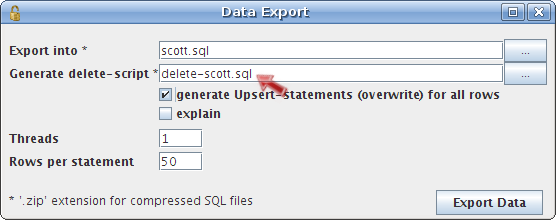
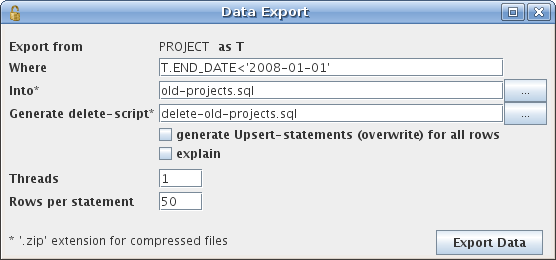
XML tutorial
git-svn-id: http://svn.code.sf.net/p/jailer/code/trunk@415 3dd849cd-670e-4645-a7cd-dd197c8d0e81

diff --git a/doc/web/deleting-data.htm b/doc/web/deleting-data.htm
@@ -35,12 +35,12 @@
     <tr>
       <td colspan="2" class="nav1background" height="33" width="100%">&nbsp;
       <b><font color="#ffffff"><a href="home.htm" target="_self"
- class="tlink">Home</a> &nbsp;&nbsp;&nbsp; <a href="quicktour.htm" target="_self" class="tlink">Quick Tour</a> &nbsp;&nbsp;&nbsp;<a
+ class="tlink">Home</a> &nbsp;&nbsp;&nbsp; <a href="quicktour.htm"
+ target="_self" class="tlink">Quick Tour</a> &nbsp;&nbsp;&nbsp;<a
  href="exporting-data.htm" target="_self" class="tlinkA">Tutorial</a>
-&nbsp;&nbsp;&nbsp; <a href="design.htm"
- target="_self" class="tlink">Documentation</a>&nbsp;&nbsp;&nbsp; <a
- href="http://sourceforge.net/forum/?group_id=197260" target="_self"
- class="tlink">Forum</a>
+&nbsp;&nbsp;&nbsp; <a href="design.htm" target="_self" class="tlink">Documentation</a>&nbsp;&nbsp;&nbsp;
+      <a href="http://sourceforge.net/forum/?group_id=197260"
+ target="_self" class="tlink">Forum</a>
 &nbsp;&nbsp;&nbsp; <a
  href="http://sourceforge.net/project/showfiles.php?group_id=197260"
  target="_self" class="tlink">Download</a> &nbsp;&nbsp;&nbsp;
@@ -99,95 +99,69 @@ Data</a></li>
 This tutorial shows you how to delete rows from database without
 violating integrity of the remaining data.<br>
             <br>
-The generation of a <span style="font-style: italic;">delete-script</span>
-is closely coupled with data export. The same restrictions are applied,
+Deleting data <span style="font-style: italic;"></span>is closely
+coupled with data exportation. The same restrictions are applied,
 no row will be deleted which is not also exported. This way you can
 always restore deleted rows by re-importing them.<br>
             <br>
-A delete-script contains DELETE statements for all exported rows which
-are not associated<br>
-with any non-exported row according to the restricted data model.
-Additionally tables can <br>
-be excluded from deletion so that their rows will never be deleted, see
-step 3.<br>
-            <h3><br>
-            </h3>
-            <h4>Step 1. Delete Scott (unsuccessful)</h4>
-Open the extraction model <big><span style="font-family: monospace;">scott.csv</span></big>
-from previous
-tutorial. Use <span style="font-style: italic;">Tools-&gt;Export Data</span>
-again and enter <big><span style="font-family: monospace;">delete-scott.sql</span></big>
-as name of delete-script:<br>
+A <span style="font-style: italic;">delete-script</span> contains
+DELETE statements for all exported rows which
+are not associated with any non-exported row according to the
+restricted data model.
+Additionally tables can be excluded from deletion so that their rows
+will never be deleted, see
+step 2.<br>
+            <h4><br>
+Objective</h4>
+Delete all projects which have ended before 2008-01-01. Delete all
+associated participations too but no role and no employee.<br>
+            <br>
+            <h3> </h3>
+            <h4>Step 1. Delete projects<br>
+            </h4>
+Create a new model. Select table PROJECT as subject table and enter
+T.END_DATE&lt;'2008-01-01' as subject condition.<br>
+            <br>
+In order to prevent the deletion of a PROJECT_PARTICIPATION, which is
+not associated with an old project but with a role of a participation
+in an old project, disable the association from ROLE to
+PROJECT_PARTICIPATION. Do the same with the association from EMPLOYEE
+to PROJECT_PARTICIPATION.<br>
+            <br>
+Disable all associations to EMPLOYEE too. This will reduce the set of
+exported employee-rows to those employees who have participated in an
+old project.<br>
+            <br>
+            <img alt="" src="delt1.gif"><br>
+            <br>
+            <br>
+Open the data export dialog. Enter <span style="font-style: italic;">delete-old-projects.sql</span>
+as name for the delete-script and start the exportation.<br>
             <p> <img src="deleting-data-Dateien/screen17.png"><br>
             </p>
+            <p><img alt="" src="delt2.gif"><br>
+            </p>
             <p><br>
-Jailer will now generate the following script too:<br>
-            <br>
-            <table
- style="background-color: rgb(51, 102, 255); text-align: left;"
- border="0" cellpadding="2" cellspacing="0">
-              <tbody>
-                <tr>
-                  <td
- style="vertical-align: top; height: 24px; background-color: rgb(202, 225, 235);"><big><span
- style="font-family: monospace;"><span style="font-weight: bold;"><span
- style="font-family: monospace;">delete-scott.sql </span></span></span><span
- style="font-family: monospace;"></span></big><br>
-                  </td>
-                </tr>
-              </tbody>
-            </table>
-            <table style="width: 100%; text-align: left;" border="0"
- cellpadding="0" cellspacing="0">
-              <tbody>
-                <tr>
-                  <td
- style="vertical-align: top; background-color: rgb(202, 225, 235);"
- colspan="2"><span style="font-family: monospace;"></span><span
- style="color: rgb(255, 0, 0); font-family: monospace;"></span><span
- style="font-family: monospace;">-- generated by Jailer at Fri May 02
-12:34:35 CEST 2008&nbsp; from wisser@desktop<br>
---<br>
--- extraction model:&nbsp; EMPLOYEE where NAME='SCOTT'
-(extractionmodel/scott.csv)<br>
--- database URL:&nbsp;&nbsp;&nbsp;&nbsp;&nbsp;
-jdbc:db2://localhost/wisser<br>
--- database user:&nbsp;&nbsp;&nbsp;&nbsp; scott<br>
--- exported entities: 7<br>
---&nbsp;&nbsp;&nbsp;&nbsp;
-DEPARTMENT&nbsp;&nbsp;&nbsp;&nbsp;&nbsp;&nbsp;&nbsp;&nbsp;&nbsp;&nbsp;&nbsp;&nbsp;&nbsp;&nbsp;&nbsp;&nbsp;&nbsp;&nbsp;&nbsp;&nbsp;
-2<br>
---&nbsp;&nbsp;&nbsp;&nbsp;
-EMPLOYEE&nbsp;&nbsp;&nbsp;&nbsp;&nbsp;&nbsp;&nbsp;&nbsp;&nbsp;&nbsp;&nbsp;&nbsp;&nbsp;&nbsp;&nbsp;&nbsp;&nbsp;&nbsp;&nbsp;&nbsp;&nbsp;&nbsp;
-3<br>
---&nbsp;&nbsp;&nbsp;&nbsp;
-SALARYGRADE&nbsp;&nbsp;&nbsp;&nbsp;&nbsp;&nbsp;&nbsp;&nbsp;&nbsp;&nbsp;&nbsp;&nbsp;&nbsp;&nbsp;&nbsp;&nbsp;&nbsp;&nbsp;&nbsp;
-2<br>
---<br>
--- Tabu-tables:&nbsp; {&nbsp; }<br>
---<br>
--- entities to delete: 0<br>
-                  </span></td>
-                </tr>
-              </tbody>
-            </table>
-            <br>
 Jailer
-has exported 7 entities but didn't delete anything! That's because
-deleting Scott but not Scotts subordinate (who is not in the set
-defined by the extraction-model!) would violate the integrity of the
-remaining data.<br>
+has generated a script for the deletion of the two old projects and the
+six associated participations, but also for the deletion of six
+employees and one role. This role is the role of an participation in an
+old project, but not of a remaining one. The six employees have
+participated in an old project but in none of the remaining projects.<br>
             <br>
             </p>
-            <h4>Step 2. Delete Scott<br>
+            <h4>Step 2. Prevent employees and roles from being deleted<br>
             </h4>
-In order to delete Scott, me must delete his subordinate
-too. To do so, relax the restriction on the <span
- style="font-style: italic;">inverse-BOSS</span>-association:
-            <p><img src="deleting-data-Dateien/screen18.png"><br>
+Open the data model editor (<span style="font-style: italic;">Tools-&gt;Data
+Model Editor</span>). Edit the table EMPLOYEE and switch on the
+check-box "<span style="font-style: italic;">exclude from deletion</span>".
+Do the same with table ROLE.<br>
             <br>
-            <br>
-and <span style="font-style: italic;">Export Data </span>again:<br>
+            <img alt="" src="delt3.gif"
+ style="width: 600px; height: 350px;"><br>
+            <p><br>
+            <span style="font-style: italic;">Export Data </span>again.
+Employees and roles are now excluded from deletion:<br>
             <br>
             <table
  style="background-color: rgb(51, 102, 255); text-align: left;"
@@ -197,7 +171,7 @@ and <span style="font-style: italic;">Export Data </span>again:<br>
                   <td
  style="vertical-align: top; height: 24px; background-color: rgb(202, 225, 235);"><big><span
  style="font-family: monospace;"><span style="font-weight: bold;"><span
- style="font-family: monospace;">delete-scott.sql </span></span></span><span
+ style="font-family: monospace;">delete-old-projects.sql </span></span></span><span
  style="font-family: monospace;"></span></big><br>
                   </td>
                 </tr>
@@ -219,143 +193,49 @@ and <span style="font-style: italic;">Export Data </span>again:<br>
 -- database URL:&nbsp;&nbsp;&nbsp;&nbsp;&nbsp;
 jdbc:db2://localhost/wisser<br>
 -- database user:&nbsp;&nbsp;&nbsp;&nbsp; scott<br>
--- exported entities: 9<br>
+-- Exported Entities: 25<br>
 --&nbsp;&nbsp;&nbsp;&nbsp;
 DEPARTMENT&nbsp;&nbsp;&nbsp;&nbsp;&nbsp;&nbsp;&nbsp;&nbsp;&nbsp;&nbsp;&nbsp;&nbsp;&nbsp;&nbsp;&nbsp;&nbsp;&nbsp;&nbsp;&nbsp;&nbsp;
 2<br>
 --&nbsp;&nbsp;&nbsp;&nbsp;
 EMPLOYEE&nbsp;&nbsp;&nbsp;&nbsp;&nbsp;&nbsp;&nbsp;&nbsp;&nbsp;&nbsp;&nbsp;&nbsp;&nbsp;&nbsp;&nbsp;&nbsp;&nbsp;&nbsp;&nbsp;&nbsp;&nbsp;&nbsp;
-4<br>
+8<br>
+--&nbsp;&nbsp;&nbsp;&nbsp;
+PROJECT&nbsp;&nbsp;&nbsp;&nbsp;&nbsp;&nbsp;&nbsp;&nbsp;&nbsp;&nbsp;&nbsp;&nbsp;&nbsp;&nbsp;&nbsp;&nbsp;&nbsp;&nbsp;&nbsp;&nbsp;&nbsp;&nbsp;&nbsp;
+2<br>
+--&nbsp;&nbsp;&nbsp;&nbsp;
+PROJECT_PARTICIPATION&nbsp;&nbsp;&nbsp;&nbsp;&nbsp;&nbsp;&nbsp;&nbsp;&nbsp;
+6<br>
+--&nbsp;&nbsp;&nbsp;&nbsp;
+ROLE&nbsp;&nbsp;&nbsp;&nbsp;&nbsp;&nbsp;&nbsp;&nbsp;&nbsp;&nbsp;&nbsp;&nbsp;&nbsp;&nbsp;&nbsp;&nbsp;&nbsp;&nbsp;&nbsp;&nbsp;&nbsp;&nbsp;&nbsp;&nbsp;&nbsp;&nbsp;
+3<br>
 --&nbsp;&nbsp;&nbsp;&nbsp;
 SALARYGRADE&nbsp;&nbsp;&nbsp;&nbsp;&nbsp;&nbsp;&nbsp;&nbsp;&nbsp;&nbsp;&nbsp;&nbsp;&nbsp;&nbsp;&nbsp;&nbsp;&nbsp;&nbsp;&nbsp;
-3<br>
+4<br>
 --<br>
--- Tabu-tables:&nbsp; {&nbsp; }<br>
+-- Tabu-tables:&nbsp; { EMPLOYEE, ROLE }<br>
 --<br>
--- entities to delete: 2<br>
+-- Deleted Entities: 8<br>
 --&nbsp;&nbsp;&nbsp;&nbsp;&nbsp;
-EMPLOYEE&nbsp;&nbsp;&nbsp;&nbsp;&nbsp;&nbsp;&nbsp;&nbsp;&nbsp;&nbsp;&nbsp;&nbsp;&nbsp;&nbsp;&nbsp;&nbsp;&nbsp;&nbsp;&nbsp;&nbsp;&nbsp;&nbsp;
-2 (-2)<br>
+PROJECT&nbsp;&nbsp;&nbsp;&nbsp;&nbsp;&nbsp;&nbsp;&nbsp;&nbsp;&nbsp;&nbsp;&nbsp;&nbsp;&nbsp;&nbsp;&nbsp;&nbsp;&nbsp;&nbsp;&nbsp;&nbsp;&nbsp;
+2<br>
+--&nbsp;&nbsp;&nbsp;&nbsp;&nbsp;
+PROJECT_PARTICIPATION&nbsp;&nbsp;&nbsp;&nbsp;&nbsp;&nbsp;&nbsp;&nbsp; 6<br>
                   <br>
                   <br>
                   <br>
-Delete from EMPLOYEE Where EMPNO in (7876);<br>
-Delete from EMPLOYEE Where EMPNO in (7788);<br>
+Delete from PROJECT_PARTICIPATION Where (PROJECTNO, EMPNO, START_DATE)
+in (values (1001, 7369, '2006-01-01'), (1001, 7788, '2006-05-15'),
+(1001, 7902, '2006-01-01'), (1002, 7782, '2006-08-22'), (1002, 7876,
+'2006-08-22'), (1002, 7934, '2007-01-01'));<br>
+Delete from PROJECT Where PROJECTNO in (1001, 1002);<br>
+                  <br>
                   </span></td>
                 </tr>
               </tbody>
             </table>
             <br>
-The file <big><span style="font-family: monospace;"><font size="4">delete-scott.sql</font></span></big>
-contains <big><span style="font-family: monospace;"><font size="4">Delete</font></span></big>-statements
-for Scott and Adams.<br>
-Note that <big><span style="font-family: monospace;"><font size="4">scott.sql</font></span></big>
-now contains <big><span style="font-family: monospace;"><font size="4">Insert</font></span></big>-statements
-for Adams and his salary-grade too. <br>
-            <br>
             </p>
-            <h4>Step 3. Delete all employees but no department</h4>
-Replace the <span style="font-style: italic;">where</span>-condition
-of the extraction model with '<big><span style="font-family: monospace;">1=1</span></big>',
-or clear the field. Repeat the exportation. Jailer exports all
-employees. The delete-script now contains the departments and
-salary-grades too.<br>
-            <br>
-The reason why no department has been deleted in step 2 is that Scott
-and Adams are not the only employees working in department 'RESEARCH'.
-To prevent departments from being deleted if all their employees are
-deleted, you can exclude the table from deletion.<br>
-            <br>
-Open the data model editor (<span style="font-style: italic;">Tools-&gt;Data
-Model Editor</span>), select and <span style="font-style: italic;">edit</span>
-table DEPARTMENT and switch-on <span style="font-style: italic;">exclude
-from deletion</span>. Do the same with SALARYGRADE.<br>
-            <br>
-            <img src="deleting-data-Dateien/screen1.png"> <br>
-            <br>
-            <img src="deleting-data-Dateien/screen2.png"> <br>
-            <br>
-            <br>
-Repeat exportation. The delete-script now contains only employees.<br>
-            <br>
-            <table
- style="background-color: rgb(51, 102, 255); text-align: left;"
- border="0" cellpadding="2" cellspacing="0">
-              <tbody>
-                <tr>
-                  <td
- style="vertical-align: top; height: 24px; background-color: rgb(202, 225, 235);"><big><span
- style="font-family: monospace;"><span style="font-weight: bold;"><span
- style="font-family: monospace;">delete-scott.sql </span></span></span><span
- style="font-family: monospace;"></span></big><br>
-                  </td>
-                </tr>
-              </tbody>
-            </table>
-            <table style="width: 100%; text-align: left;" border="0"
- cellpadding="0" cellspacing="0">
-              <tbody>
-                <tr>
-                  <td
- style="vertical-align: top; background-color: rgb(202, 225, 235);"
- colspan="2"><span style="font-family: monospace;"></span><span
- style="color: rgb(255, 0, 0); font-family: monospace;"></span><span
- style="font-family: monospace;">-- generated by Jailer Fri May 02
-12:37:31 CEST 2008&nbsp; from wisser@desktop</span><br
- style="font-family: monospace;">
-                  <span style="font-family: monospace;">-- </span><br
- style="font-family: monospace;">
-                  <span style="font-family: monospace;">-- extraction
-model:&nbsp; EMPLOYEE where 1=1 (extractionmodel/f.csv)</span><br
- style="font-family: monospace;">
-                  <span style="font-family: monospace;">-- database
-URL:&nbsp;&nbsp;&nbsp;&nbsp;&nbsp; jdbc:db2://dbsrv:50001/wisser</span><br
- style="font-family: monospace;">
-                  <span style="font-family: monospace;">-- database
-user:&nbsp;&nbsp;&nbsp;&nbsp; wisser</span><br
- style="font-family: monospace;">
-                  <span style="font-family: monospace;">-- Exported
-Entities: 22</span><br style="font-family: monospace;">
-                  <span style="font-family: monospace;">--&nbsp;&nbsp;&nbsp;&nbsp;
-DEPARTMENT&nbsp;&nbsp;&nbsp;&nbsp;&nbsp;&nbsp;&nbsp;&nbsp;&nbsp;&nbsp;&nbsp;&nbsp;&nbsp;&nbsp;&nbsp;&nbsp;&nbsp;&nbsp;&nbsp;&nbsp;
-3</span><br style="font-family: monospace;">
-                  <span style="font-family: monospace;">--&nbsp;&nbsp;&nbsp;&nbsp;
-EMPLOYEE&nbsp;&nbsp;&nbsp;&nbsp;&nbsp;&nbsp;&nbsp;&nbsp;&nbsp;&nbsp;&nbsp;&nbsp;&nbsp;&nbsp;&nbsp;&nbsp;&nbsp;&nbsp;&nbsp;&nbsp;&nbsp;&nbsp;
-14</span><br style="font-family: monospace;">
-                  <span style="font-family: monospace;">--&nbsp;&nbsp;&nbsp;&nbsp;
-SALARYGRADE&nbsp;&nbsp;&nbsp;&nbsp;&nbsp;&nbsp;&nbsp;&nbsp;&nbsp;&nbsp;&nbsp;&nbsp;&nbsp;&nbsp;&nbsp;&nbsp;&nbsp;&nbsp;&nbsp;
-5</span><br style="font-family: monospace;">
-                  <span style="font-family: monospace;">-- </span><br
- style="font-family: monospace;">
-                  <span style="font-family: monospace;">--
-Tabu-tables:&nbsp; { DEPARTMENT, SALARYGRADE }</span><br
- style="font-family: monospace;">
-                  <span style="font-family: monospace;">-- </span><br
- style="font-family: monospace;">
-                  <span style="font-family: monospace;">-- Deleted
-Entities: 14</span><br style="font-family: monospace;">
-                  <span style="font-family: monospace;">--&nbsp;&nbsp;&nbsp;&nbsp;&nbsp;
-EMPLOYEE&nbsp;&nbsp;&nbsp;&nbsp;&nbsp;&nbsp;&nbsp;&nbsp;&nbsp;&nbsp;&nbsp;&nbsp;&nbsp;&nbsp;&nbsp;&nbsp;&nbsp;&nbsp;&nbsp;&nbsp;&nbsp;&nbsp;
-14</span><br style="font-family: monospace;">
-                  <br style="font-family: monospace;">
-                  <br style="font-family: monospace;">
-                  <br style="font-family: monospace;">
-                  <span style="font-family: monospace;">Delete from
-EMPLOYEE Where EMPNO in (7369, 7499, 7521, 7654, 7844, 7876, 7900,
-7934);</span><br style="font-family: monospace;">
-                  <span style="font-family: monospace;">Delete from
-EMPLOYEE Where EMPNO in (7698, 7782, 7788, 7902);</span><br
- style="font-family: monospace;">
-                  <span style="font-family: monospace;">Delete from
-EMPLOYEE Where EMPNO in (7566);</span><br
- style="font-family: monospace;">
-                  <span style="font-family: monospace;">Delete from
-EMPLOYEE Where EMPNO in (7839);</span><br>
-                  <span style="font-family: monospace;"> </span></td>
-                </tr>
-              </tbody>
-            </table>
-            <br>
             <br>
             <p><br>
             <br>

diff --git a/doc/web/exporting-xml.html b/doc/web/exporting-xml.html
@@ -49,7 +49,7 @@ Tour</a> &nbsp;&nbsp;&nbsp;<a href="exporting-data.htm" target="_self"
 &nbsp;&nbsp;&nbsp; &nbsp;&nbsp;&nbsp;</font></b></td>
     </tr>
     <tr>
-      <td colspan="2" class="spacer" width="100%"> <br>
+      <td colspan="2" class="spacer" width="100%">
       </td>
     </tr>
     <tr>

diff --git a/doc/web/exporting-data.htm b/doc/web/exporting-data.htm
@@ -48,7 +48,7 @@
 &nbsp;&nbsp;&nbsp; &nbsp;&nbsp;&nbsp;</font></b></td>
     </tr>
     <tr>
-      <td colspan="2" class="spacer" width="100%"> <br>
+      <td colspan="2" class="spacer" width="100%">
       </td>
     </tr>
     <tr>

diff --git a/doc/web/home.htm b/doc/web/home.htm
@@ -48,7 +48,7 @@
 &nbsp;&nbsp;&nbsp; &nbsp;&nbsp;&nbsp;</font></b></td>
     </tr>
     <tr>
-      <td colspan="2" class="spacer" width="100%"> <br>
+      <td colspan="2" class="spacer" width="100%">
       </td>
     </tr>
     <tr>
